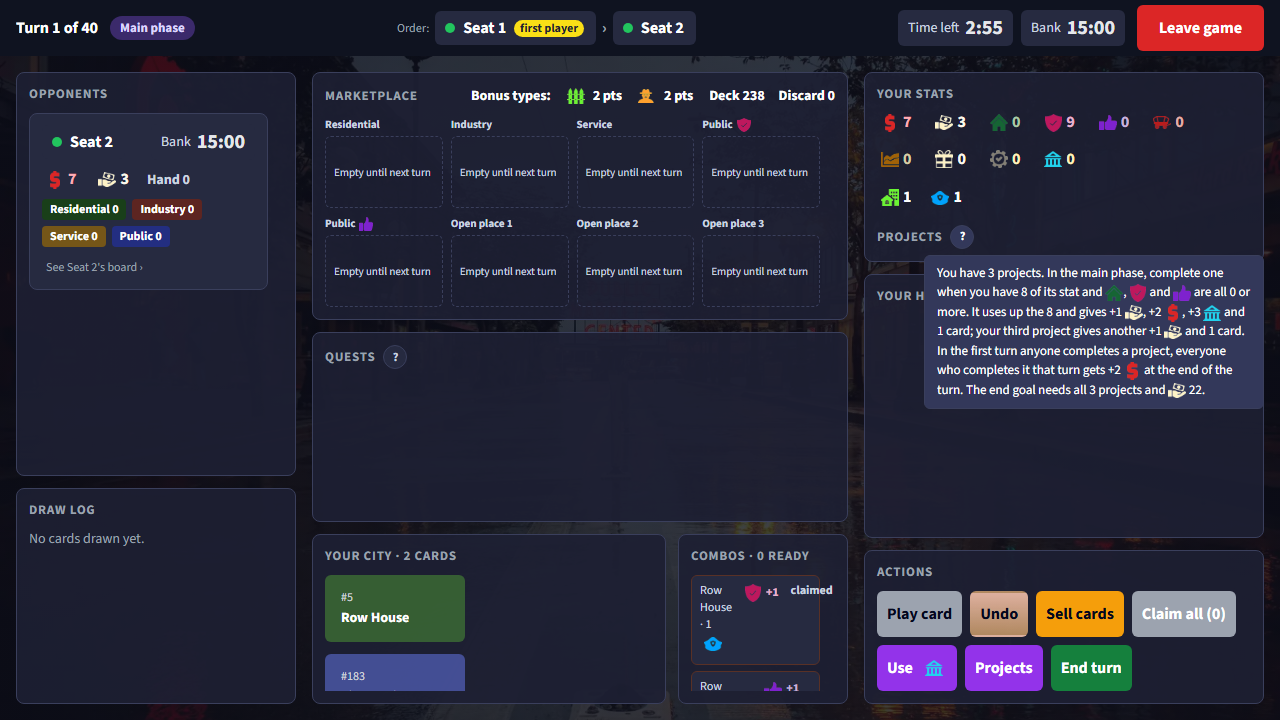
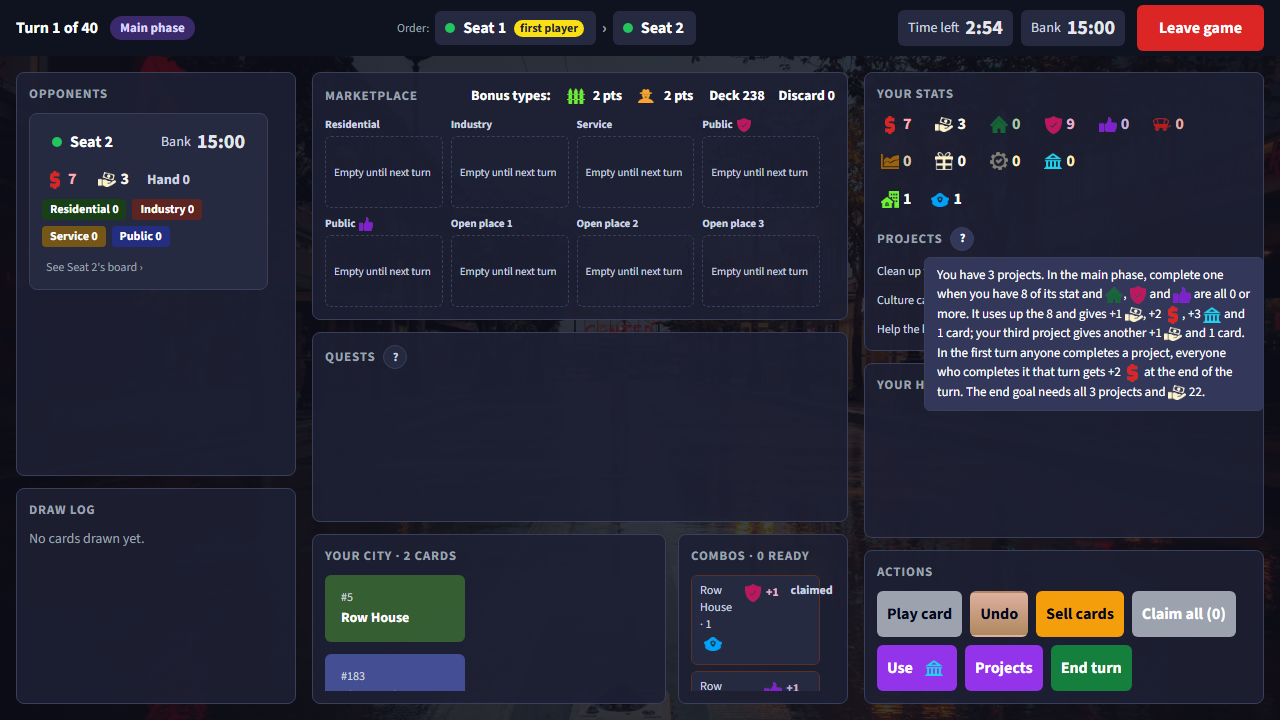
HARNESS: Screenshots after review findings 1, 2 and 7; fixer A's notes

Changed region(s): [[0.6875, 0.2139, 0.9688, 0.5806], [0.6875, 0.1528, 0.9375, 0.1833]]

diff --git a/docs/plan/phase-20a-playthrough-fixes.md b/docs/plan/phase-20a-playthrough-fixes.md
@@ -367,7 +367,20 @@ and must pass again:
      of `role="img"`, including QuestParts with word labels.
   7. Suggestion: negative-stat parts in `QuestProgressLine.tsx` use lowercase names
      ("workforce"); `StatChip` uses "Workforce".
-- [ ] Fixer A: findings 1, 2 and 7 (screen and tooltips).
+- [x] Fixer A: findings 1, 2 and 7 (screen and tooltips).
+  - 1 fixed: the right column's Your stats row is at least as tall as its content
+    (`minmax(min-content, 300fr)` in `GamePage.module.css`), so the hand gets the rest. At
+    1280x720 all 3 project lines show, also with type counts (`combos-list`, `game-table`); the
+    hand is shorter there and scrolls. Test: `e2e/expectAllProjectsInView.ts` in
+    `gameScreenSizes` and `combosAndProjects` (each project line fully in view).
+  - 2 fixed: the focus rule for tooltips is `:is(button, a[href]):focus-visible` in
+    `Chip.module.css` and `QuestsPanel.module.css` (every focusable control in the client is a
+    button or a link; the panel body is the only other tab stop). Test:
+    `e2e/tooltipsOnFocus.spec.ts` (a focused Opponents body shows no tooltip, the focused Use
+    Influence button shows its own); it fails with the old rule.
+  - 7 fixed: negative-stat parts use the icon's name ("Workforce"), as `StatChip` does.
+  - For later items: other 1280x720 screenshots of the game screen change (taller Your stats,
+    shorter hand); only those of the specs above were retaken.
 - [ ] Fixer B: findings 3, 4, 5 and 6 (records and tests).
 - [ ] Finisher after the fixes.
 
